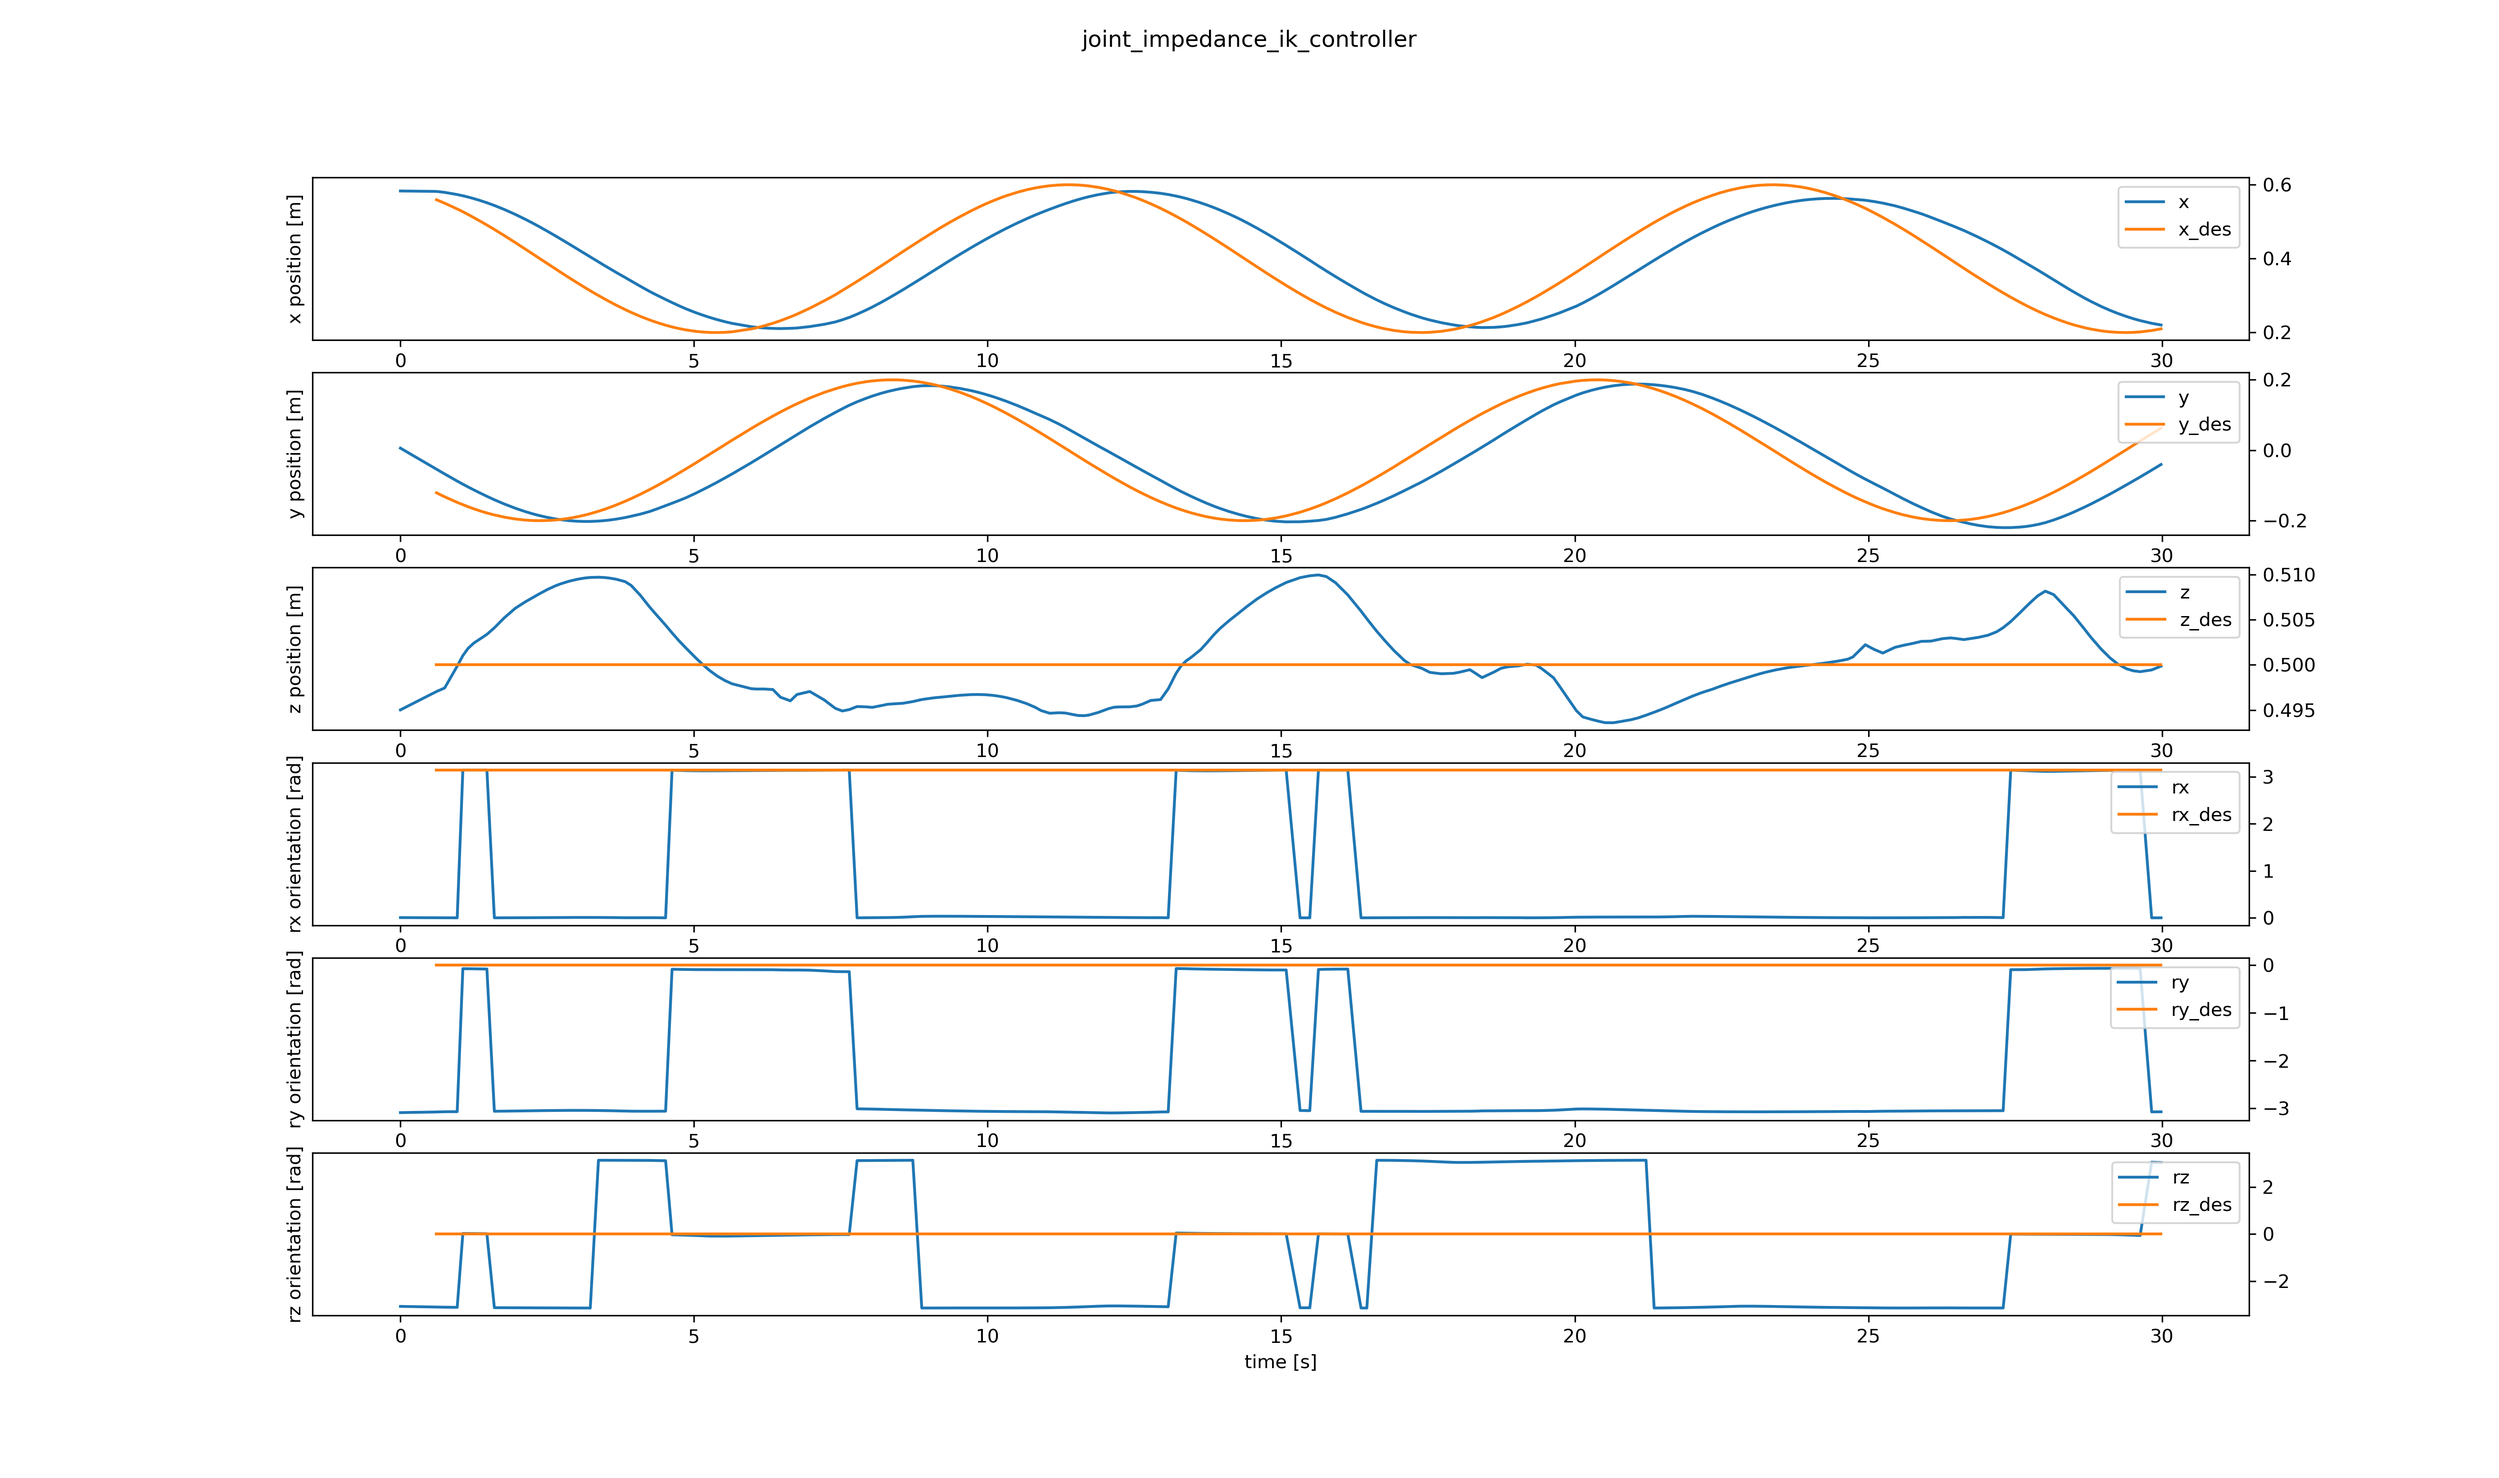
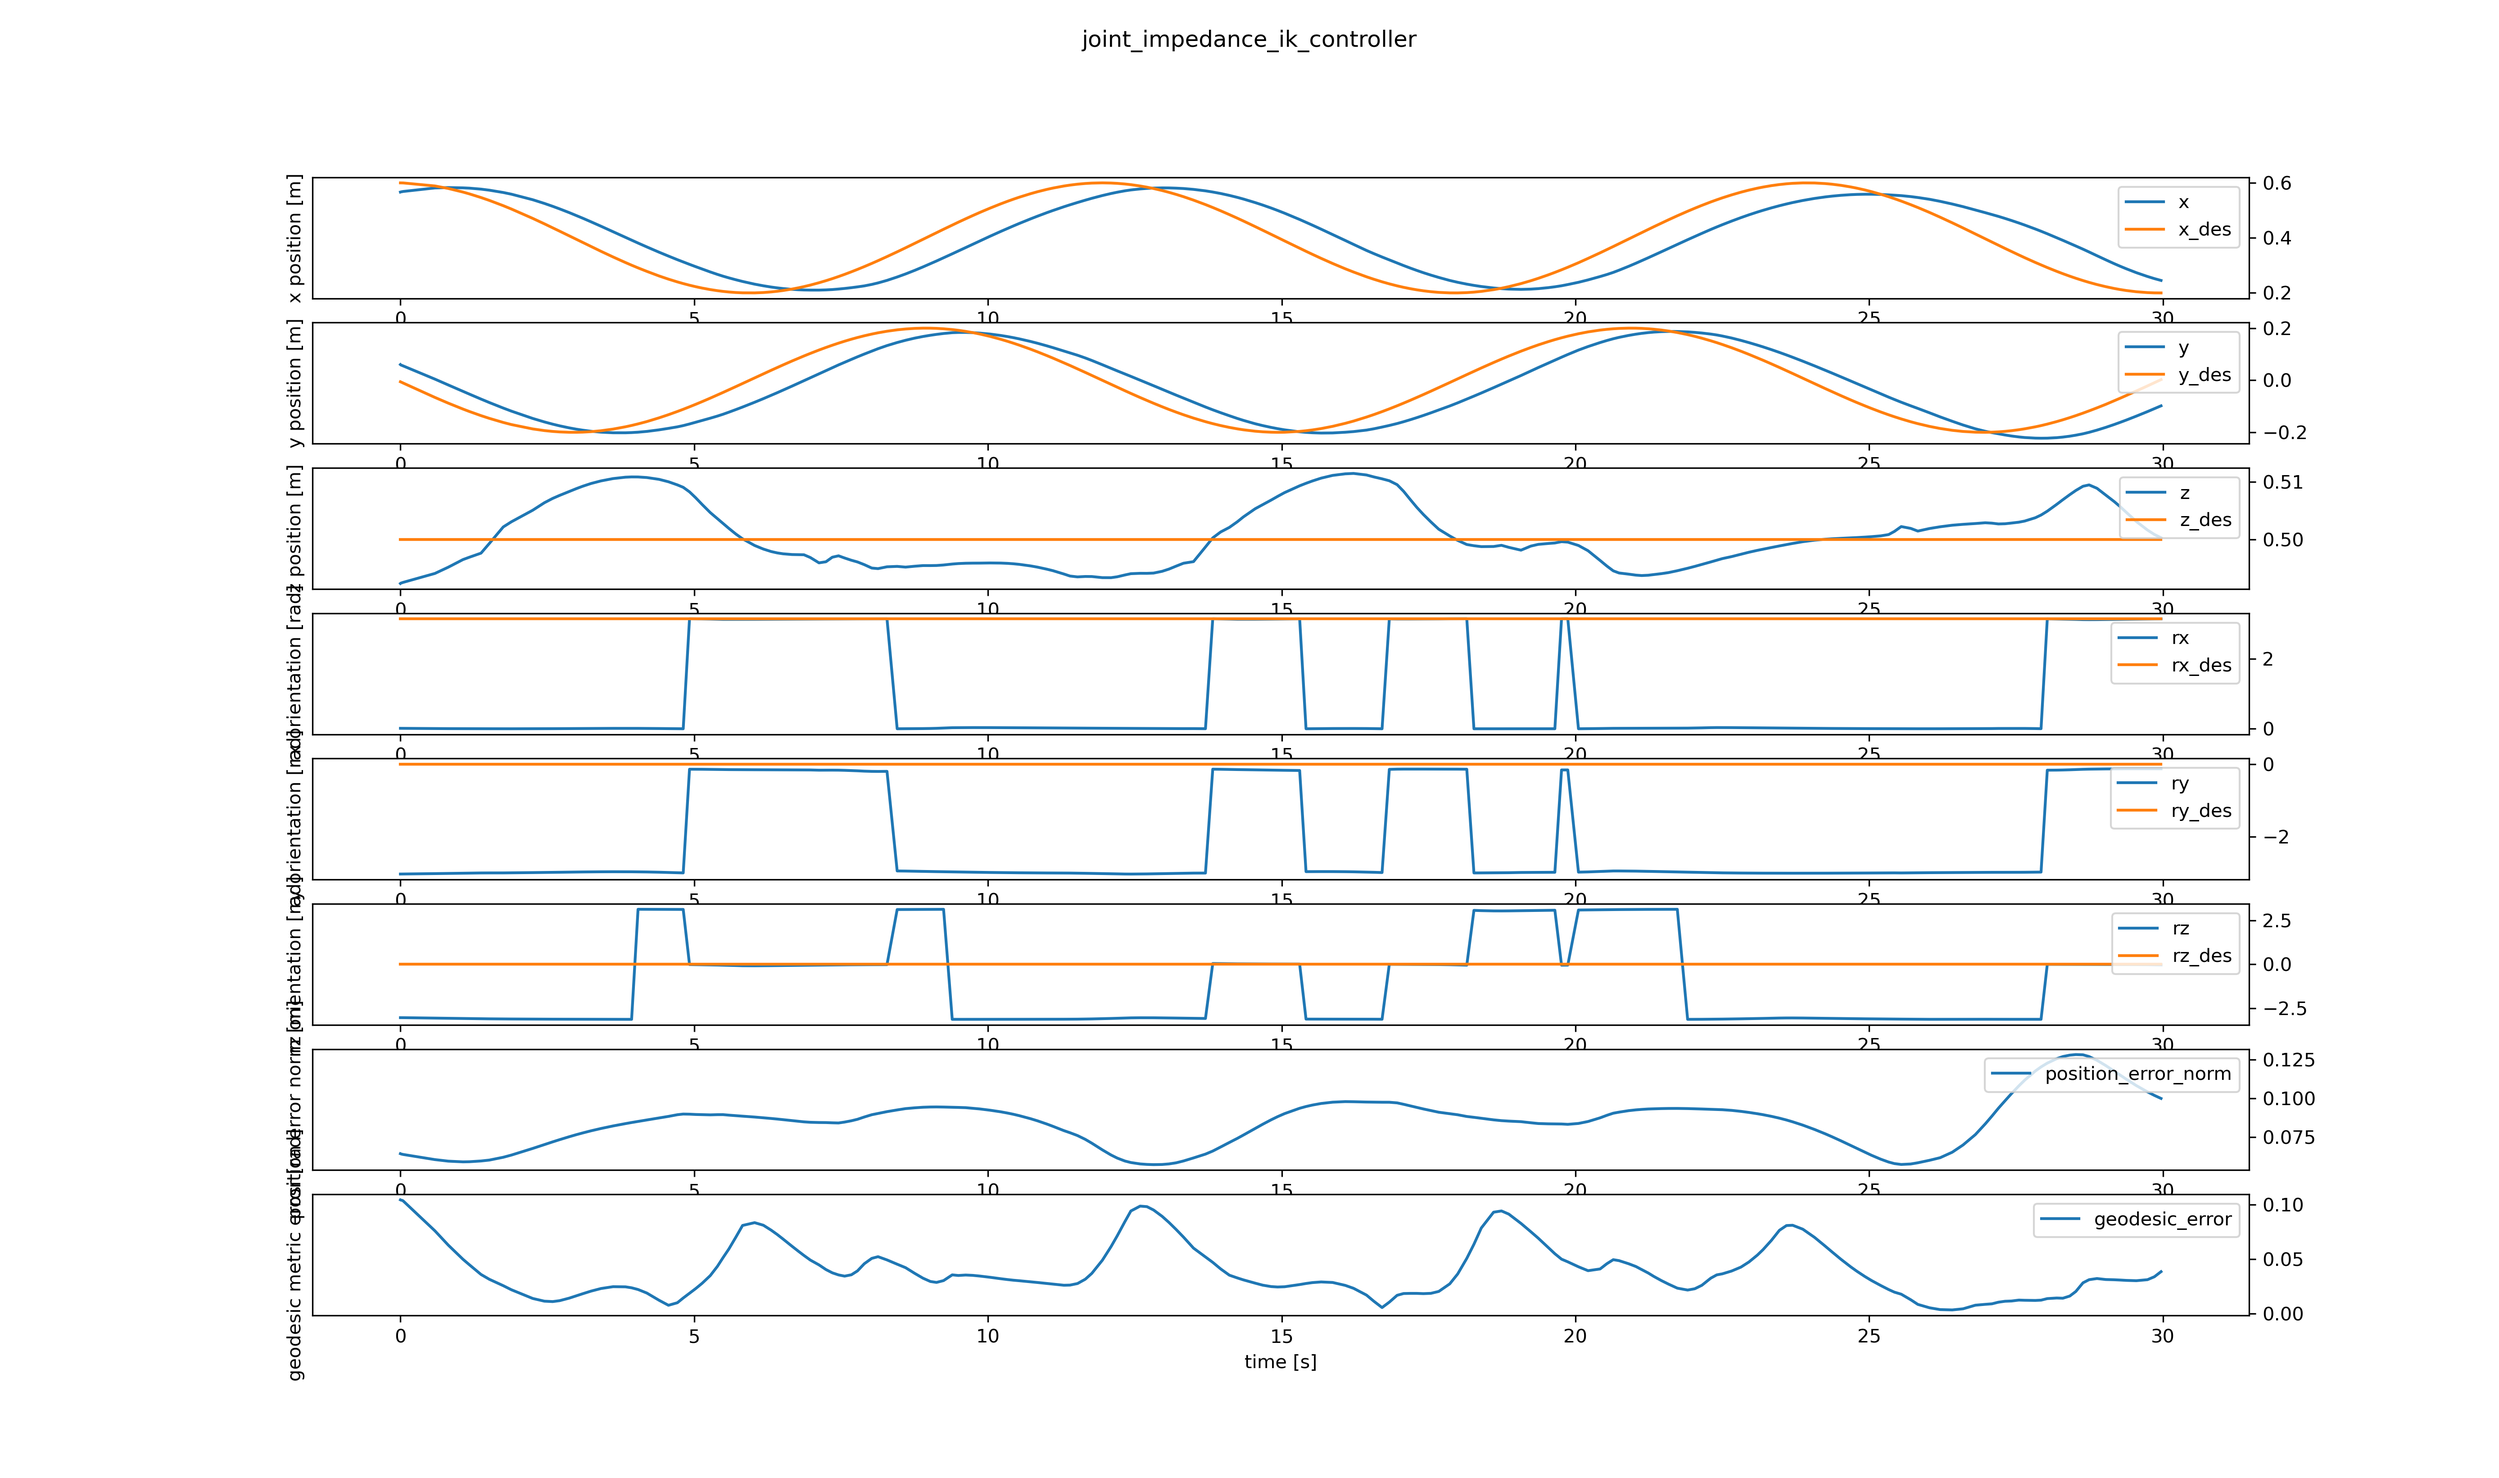
Discovered geodesic metric as strong candidate for orientation error quantification. Added position error norm to plotter.

diff --git a/scripts/plot_pose_error.py b/scripts/plot_pose_error.py
@@ -51,7 +51,7 @@ class PoseErrorPlotter(Node):
             Float64MultiArray, desired_topic, self.desired_callback, 10
         )
 
-        self.figure, (self.x_data_axis, self.y_data_axis, self.z_data_axis, self.rx_data_axis, self.ry_data_axis, self.rz_data_axis) = plt.subplots(6, 1)
+        self.figure, (self.x_data_axis, self.y_data_axis, self.z_data_axis, self.rx_data_axis, self.ry_data_axis, self.rz_data_axis, self.position_error_norm_data_axis, self.geodesic_data_axis) = plt.subplots(8, 1)
 
         self.x_lines = [
             self.x_data_axis.plot([], [], label=label)[0]
@@ -77,6 +77,12 @@ class PoseErrorPlotter(Node):
             self.rz_data_axis.plot([], [], label=label)[0]
             for label in ("rz", "rz_des")
         ]
+        self.position_error_line = [
+            self.position_error_norm_data_axis.plot([], label="position_error_norm")[0]
+        ]
+        self.geodesic_line = [
+            self.geodesic_data_axis.plot([], label="geodesic_error")[0]
+        ]
 
         self.x_data_axis.set_xlabel("time [s]")
         self.y_data_axis.set_xlabel("time [s]")
@@ -84,6 +90,8 @@ class PoseErrorPlotter(Node):
         self.rx_data_axis.set_xlabel("time [s]")
         self.ry_data_axis.set_xlabel("time [s]")
         self.rz_data_axis.set_xlabel("time [s]")
+        self.position_error_norm_data_axis.set_xlabel("time [s]")
+        self.geodesic_data_axis.set_xlabel("time [s]")
 
         self.x_data_axis.set_ylabel("x position [m]")
         self.y_data_axis.set_ylabel("y position [m]")
@@ -91,6 +99,8 @@ class PoseErrorPlotter(Node):
         self.rx_data_axis.set_ylabel("rx orientation [rad]")
         self.ry_data_axis.set_ylabel("ry orientation [rad]")
         self.rz_data_axis.set_ylabel("rz orientation [rad]")
+        self.position_error_norm_data_axis.set_ylabel("position error norm [m]")
+        self.geodesic_data_axis.set_ylabel("geodesic metric error [rad]")
 
         for ax in [
             self.x_data_axis,
@@ -98,7 +108,9 @@ class PoseErrorPlotter(Node):
             self.z_data_axis,
             self.rx_data_axis,
             self.ry_data_axis,
-            self.rz_data_axis
+            self.rz_data_axis,
+            self.position_error_norm_data_axis,
+            self.geodesic_data_axis
         ]:
             ax.yaxis.tick_right()
 
@@ -108,6 +120,8 @@ class PoseErrorPlotter(Node):
         self.rx_data_axis.legend(loc="upper right")
         self.ry_data_axis.legend(loc="upper right")
         self.rz_data_axis.legend(loc="upper right")
+        self.position_error_norm_data_axis.legend(loc="upper right")
+        self.geodesic_data_axis.legend(loc="upper right")
 
         self.timer = self.create_timer(0.05, self.update_plot)
 
@@ -118,9 +132,9 @@ class PoseErrorPlotter(Node):
 
 
     def real_callback(self, message):
-        if len(message.data) != 6:
-            self.get_logger().warning("Expected 6 pose values")
-            return
+        #if len(message.data) != 6:
+        #    self.get_logger().warning("Expected 6 pose values")
+        #    return
         
         time = self.get_clock().now().nanoseconds * 1e-9
         if self.start_time is None:
@@ -129,9 +143,9 @@ class PoseErrorPlotter(Node):
         self.real_values.append(list(message.data))
 
     def desired_callback(self, message):
-        if len(message.data) != 6:
-            self.get_logger().warning("Expected 6 desired pose values")
-            return
+        #if len(message.data) != 6:
+        #    self.get_logger().warning("Expected 6 desired pose values")
+        #    return
             
         time = self.get_clock().now().nanoseconds * 1e-9
         if self.start_time is None:
@@ -197,6 +211,14 @@ class PoseErrorPlotter(Node):
             desired_time,
             [v[5] for v in desired_values]
         )
+        self.position_error_line[0].set_data(
+            real_time,
+            [v[6] for v in real_values]
+        )
+        self.geodesic_line[0].set_data(
+            real_time,
+            [v[7] for v in real_values]
+        )
 
         self.x_data_axis.relim()
         self.x_data_axis.autoscale_view()
@@ -210,6 +232,10 @@ class PoseErrorPlotter(Node):
         self.ry_data_axis.autoscale_view()
         self.rz_data_axis.relim()
         self.rz_data_axis.autoscale_view()
+        self.position_error_norm_data_axis.relim()
+        self.position_error_norm_data_axis.autoscale_view()
+        self.geodesic_data_axis.relim()
+        self.geodesic_data_axis.autoscale_view()
         self.figure.canvas.draw_idle()
         self.figure.canvas.flush_events()
         self.figure.suptitle(controller_name)

diff --git a/src/joint_impedance_ik_controller.cpp b/src/joint_impedance_ik_controller.cpp
@@ -336,6 +336,11 @@ controller_interface::return_type JointImpedanceIkController::update(
   error.head(3) *= kp_pos; // Scale position error
   error.tail(3) *= kp_ori; // Scale orientation error
 
+  Eigen::Quaterniond error_quaternion(orientation_model.inverse() * orientation_d_);
+
+  double position_error_norm = (position_model - position_d_).norm();
+  double geodesic_error = 2.0 * std::acos(std::abs(error_quaternion.w()));
+
   // --- Publish real pose for visualization ---
   Eigen::Vector3d euler = transform.rotation().eulerAngles(0, 1, 2);
   std_msgs::msg::Float64MultiArray real_pose_msg;
@@ -345,7 +350,9 @@ controller_interface::return_type JointImpedanceIkController::update(
     position_model[2],
     euler[0],
     euler[1],
-    euler[2]
+    euler[2],
+    position_error_norm,
+    geodesic_error
   };
   real_pose_pub_->publish(real_pose_msg);
 

diff --git a/src/cartesian_impedance_controller.cpp b/src/cartesian_impedance_controller.cpp
@@ -336,6 +336,9 @@ controller_interface::return_type CartesianImpedanceController::update(const rcl
   error.tail(3) << error_quaternion.x(), error_quaternion.y(), error_quaternion.z();
   error.tail(3) << -transform.rotation() * error.tail(3);
 
+  double position_error_norm = error.head(3).norm();
+  double geodesic_error = 2.0 * std::acos(std::abs(error_quaternion.w()));
+
   // --- Publish real pose for visualization ---
   Eigen::Vector3d euler = transform.rotation().eulerAngles(0, 1, 2);
   std_msgs::msg::Float64MultiArray real_pose_msg;
@@ -345,7 +348,9 @@ controller_interface::return_type CartesianImpedanceController::update(const rcl
     position[2],
     euler[0],
     euler[1],
-    euler[2]
+    euler[2],
+    position_error_norm,
+    geodesic_error
   };
   real_pose_pub_->publish(real_pose_msg);
 

diff --git a/src/riemannian_motion_policy.cpp b/src/riemannian_motion_policy.cpp
@@ -975,6 +975,9 @@ controller_interface::return_type RiemannianMotionPolicy::update(const rclcpp::T
   error.tail(3) << -transform.rotation() * error.tail(3);
   error.head(3) << position - position_d_;
 
+  double position_error_norm = error.head(3).norm();
+  double geodesic_error = 2.0 * std::acos(std::abs(error_quaternion.w()));
+
   // --- Publish real pose for visualization ---
   Eigen::Vector3d euler = transform.rotation().eulerAngles(0, 1, 2);
   std_msgs::msg::Float64MultiArray real_pose_msg;
@@ -984,7 +987,9 @@ controller_interface::return_type RiemannianMotionPolicy::update(const rclcpp::T
     position[2],
     euler[0],
     euler[1],
-    euler[2]
+    euler[2],
+    position_error_norm,
+    geodesic_error
   };
   real_pose_pub_->publish(real_pose_msg);
 
